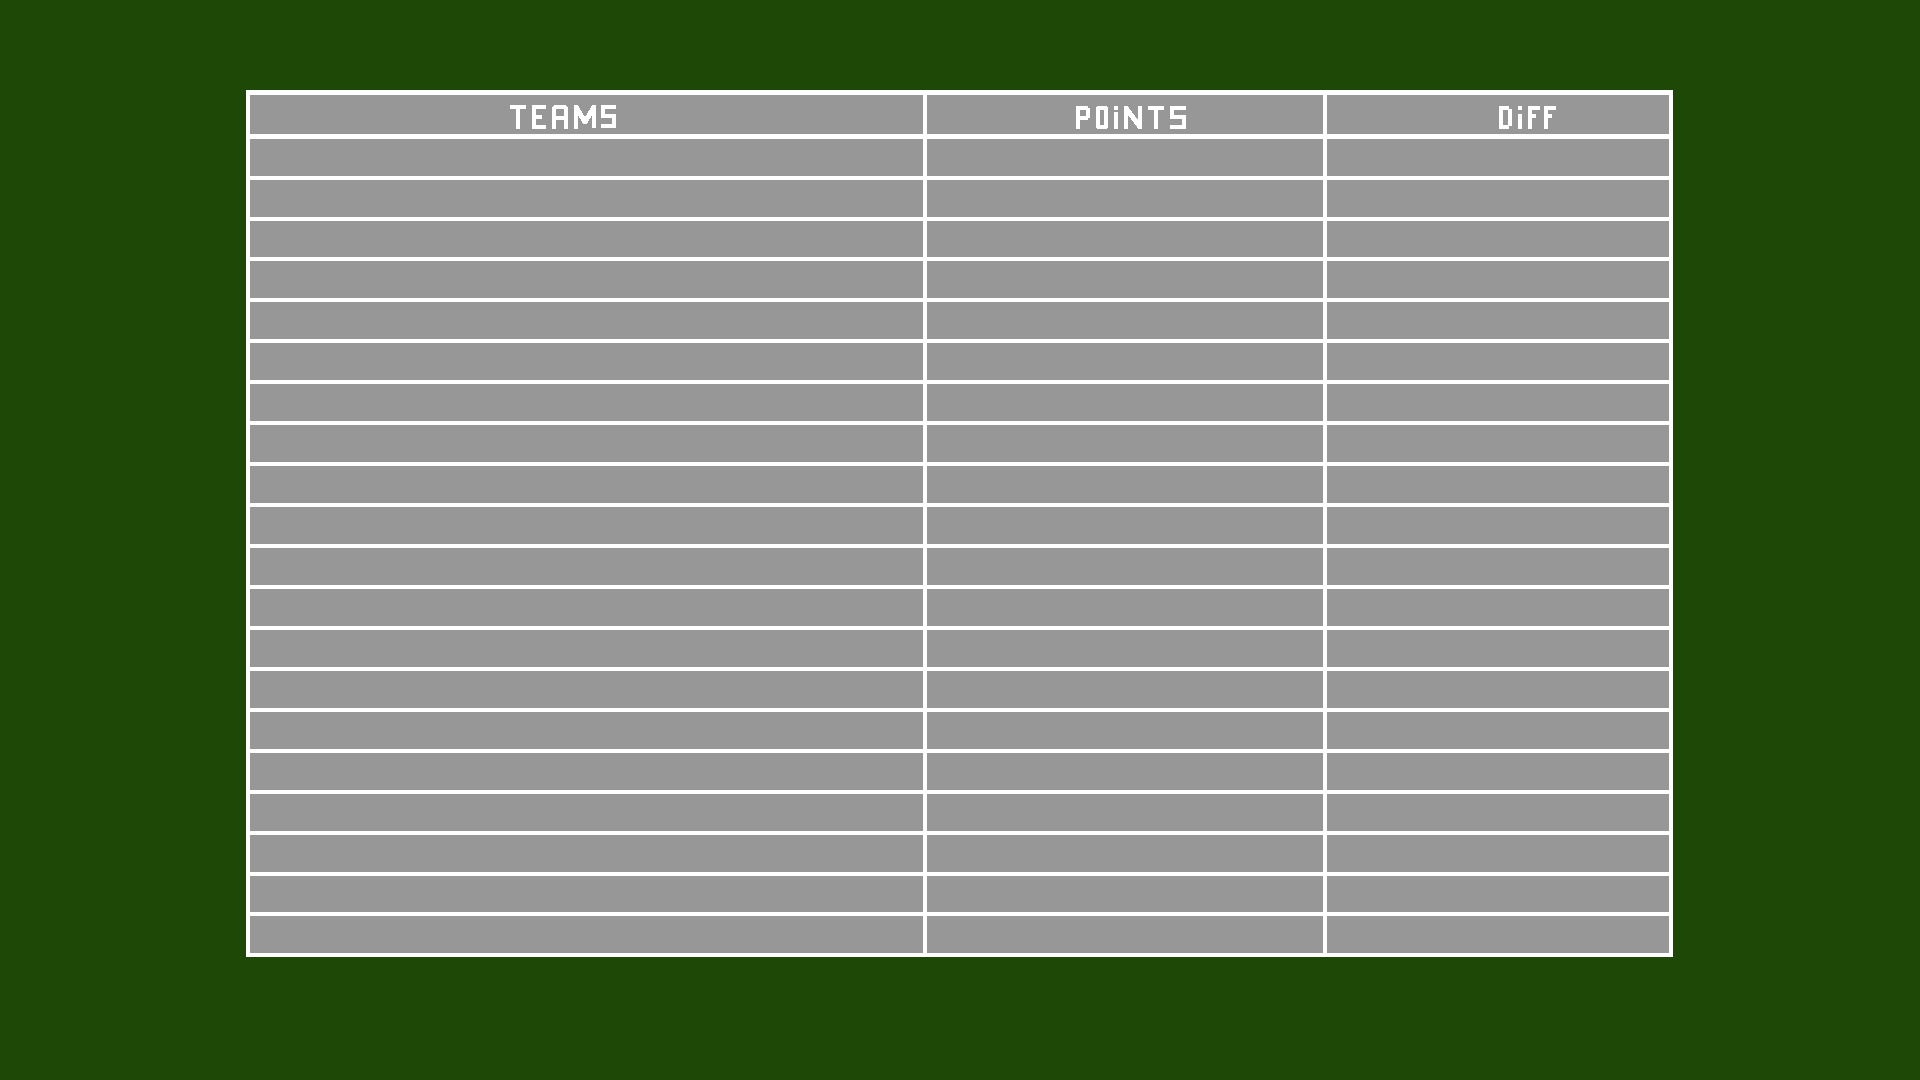
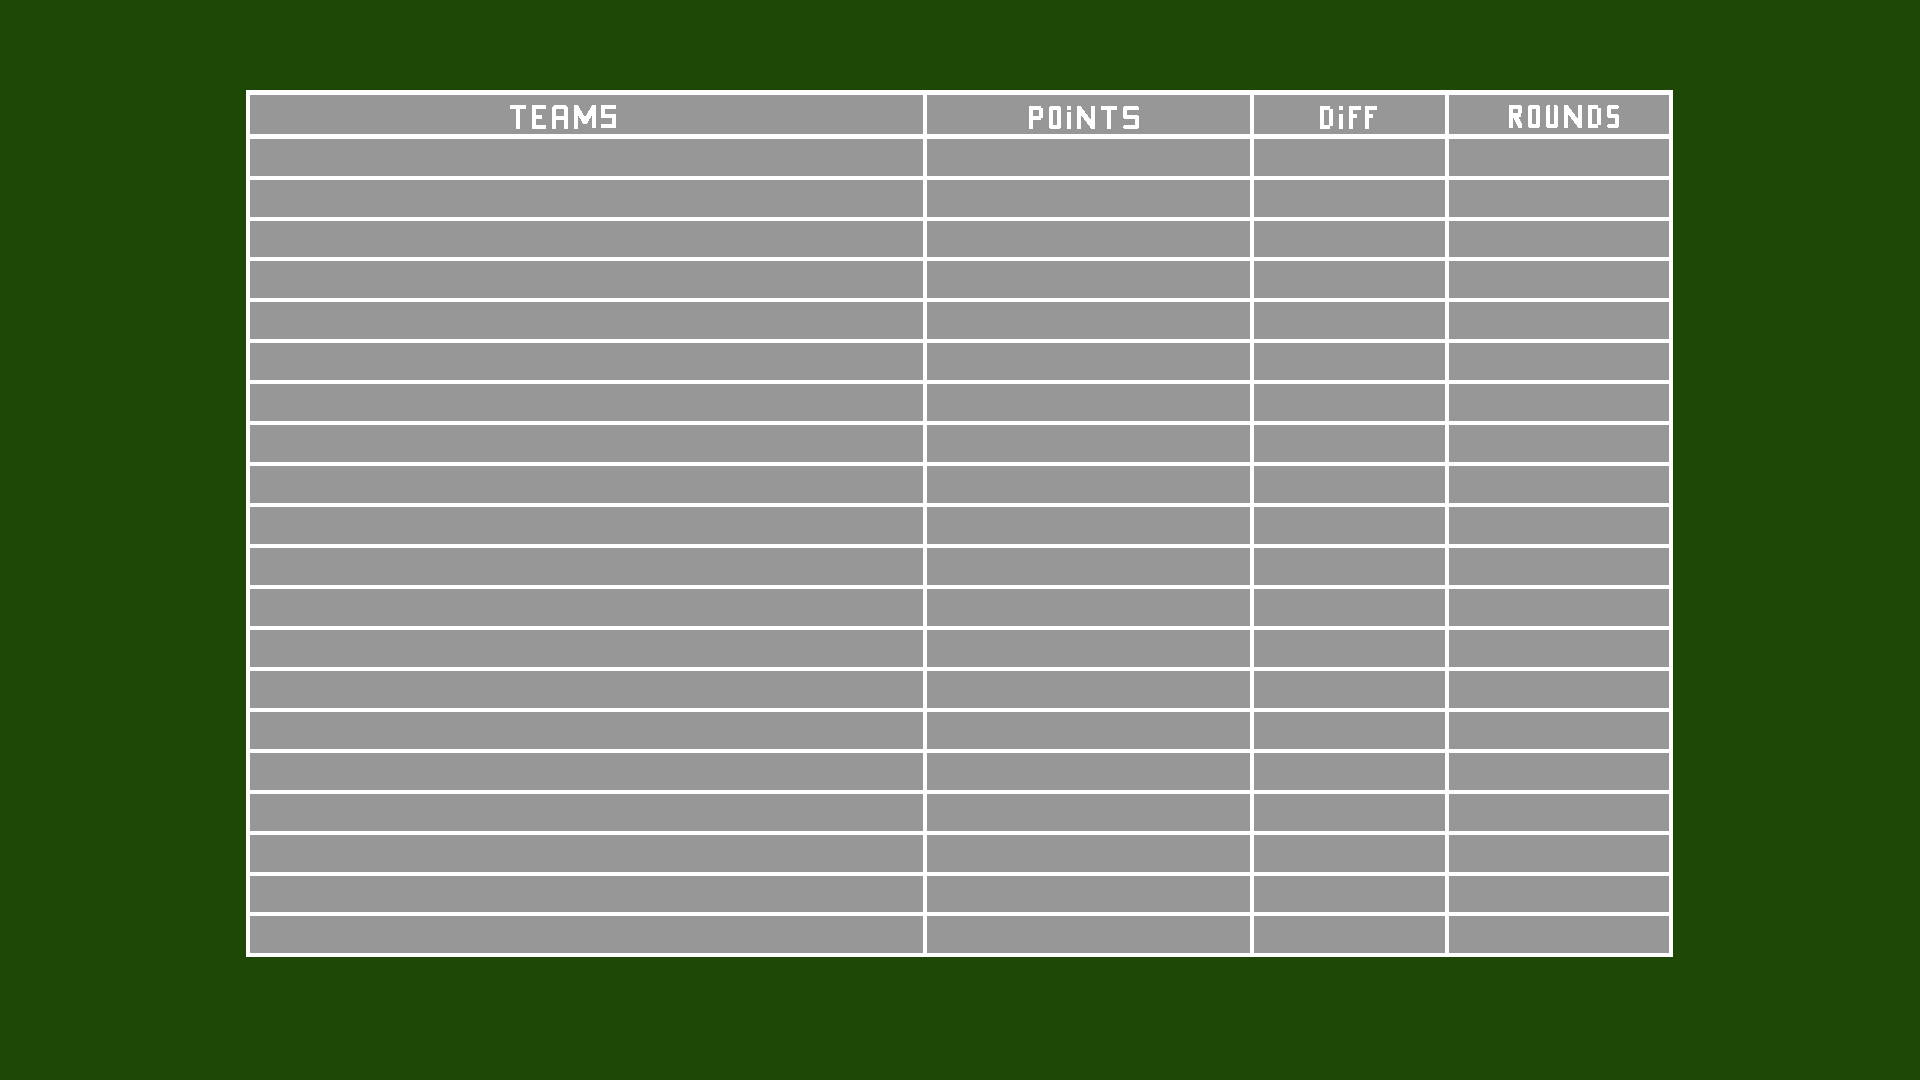
Version 1.0.2

Changed region(s): [[0.5312, 0.0917, 0.625, 0.1222], [0.7812, 0.0917, 0.8438, 0.1222], [0.6875, 0.0917, 0.7188, 0.1222]]

diff --git a/Views/Standings.cs b/Views/Standings.cs
@@ -133,8 +133,9 @@ public class Standings : Form
             {
                 i++;
                 Draws.DrawTeamName(teams.Name, Color.White, new RectangleF(Screen.PrimaryScreen.Bounds.Width * 0.24f, Screen.PrimaryScreen.Bounds.Height * 0.0379f * i, Screen.PrimaryScreen.Bounds.Width * 0.104f, Screen.PrimaryScreen.Bounds.Height * 0.22f));
-                Draws.DrawPoints(teams.Points.ToString(), Color.White, new RectangleF(Screen.PrimaryScreen.Bounds.Width * 0.54f, Screen.PrimaryScreen.Bounds.Height * 0.0379f * i, Screen.PrimaryScreen.Bounds.Width * 0.104f, Screen.PrimaryScreen.Bounds.Height * 0.22f));
-                Draws.DrawDiff(teams.Diff.ToString(), Color.White, new RectangleF(Screen.PrimaryScreen.Bounds.Width * 0.74f, Screen.PrimaryScreen.Bounds.Height * 0.0379f * i, Screen.PrimaryScreen.Bounds.Width * 0.104f, Screen.PrimaryScreen.Bounds.Height * 0.22f));
+                Draws.DrawPoints(teams.Points.ToString(), Color.White, new RectangleF(Screen.PrimaryScreen.Bounds.Width * 0.517f, Screen.PrimaryScreen.Bounds.Height * 0.0379f * i, Screen.PrimaryScreen.Bounds.Width * 0.104f, Screen.PrimaryScreen.Bounds.Height * 0.22f));
+                Draws.DrawDiff(teams.Diff.ToString(), Color.White, new RectangleF(Screen.PrimaryScreen.Bounds.Width * 0.649f, Screen.PrimaryScreen.Bounds.Height * 0.0379f * i, Screen.PrimaryScreen.Bounds.Width * 0.104f, Screen.PrimaryScreen.Bounds.Height * 0.22f));
+                Draws.DrawDiff(game.Round.ToString(), Color.White, new RectangleF(Screen.PrimaryScreen.Bounds.Width * 0.762f, Screen.PrimaryScreen.Bounds.Height * 0.0379f * i, Screen.PrimaryScreen.Bounds.Width * 0.104f, Screen.PrimaryScreen.Bounds.Height * 0.22f));
             }
             
             btNewRound.DrawChooseButton(g);

diff --git a/Views/Field.cs b/Views/Field.cs
@@ -62,7 +62,7 @@ public class Field : Form
 
         RectangleF score = new RectangleF(
             Screen.PrimaryScreen.Bounds.Width*0.433f, 
-            Screen.PrimaryScreen.Bounds.Height*0.122f, 
+            Screen.PrimaryScreen.Bounds.Height*0.128f, 
             Screen.PrimaryScreen.Bounds.Width*0.133f, 
             Screen.PrimaryScreen.Bounds.Height*0.049f
         );
@@ -90,7 +90,7 @@ public class Field : Form
             SizeF countSize = g.MeasureString(countdown, font);
 
             g.DrawString(countdown, font, Brushes.Black,
-                new PointF(score.X + (score.Width/2 - countSize.Width/2), Screen.PrimaryScreen.Bounds.Height*0.146f)
+                new PointF(score.X + (score.Width/2 - countSize.Width/2), Screen.PrimaryScreen.Bounds.Height*0.15f)
             );
 
             // g.DrawRectangle(Pens.Red, new RectangleF(
